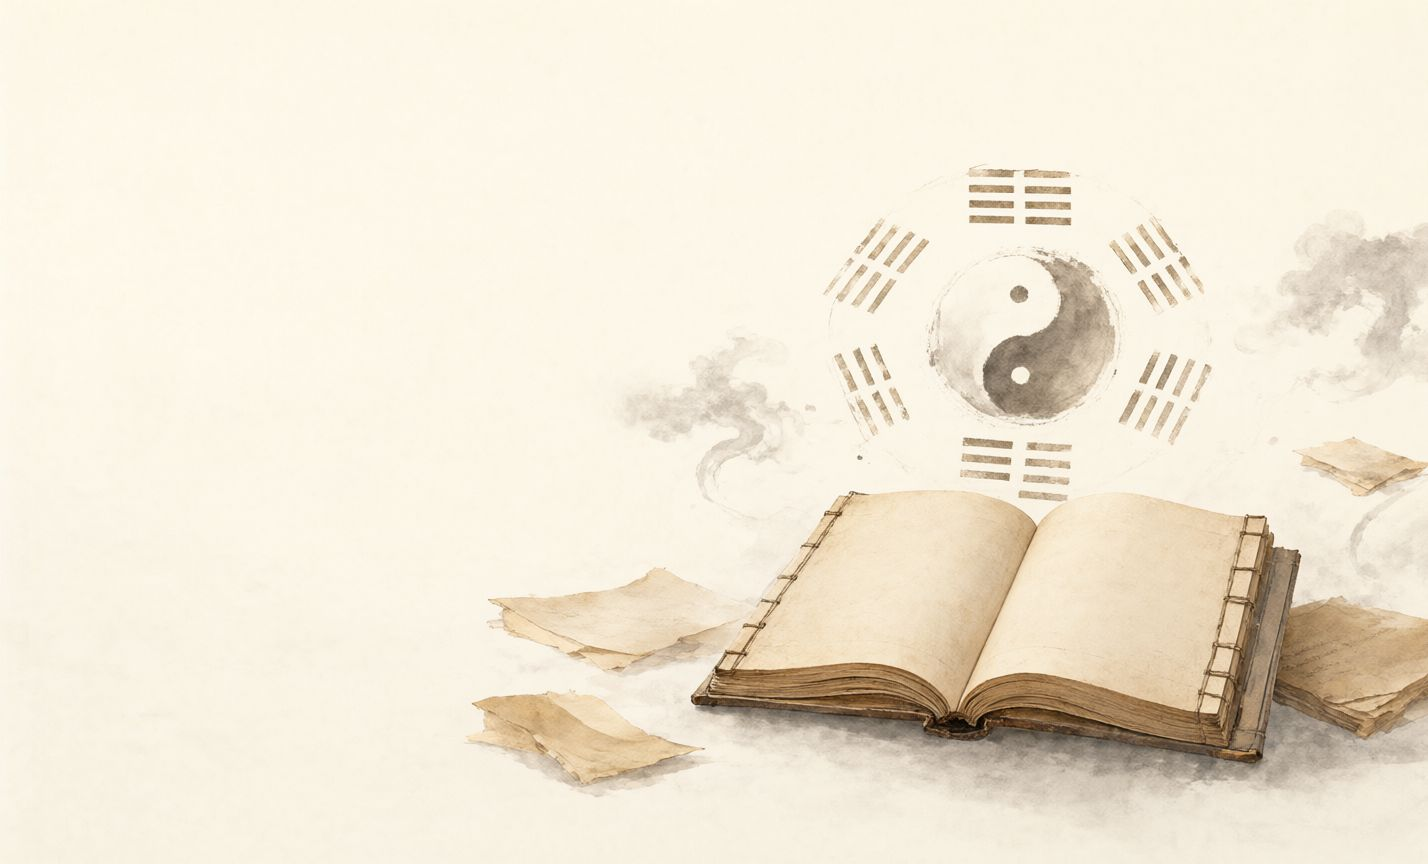
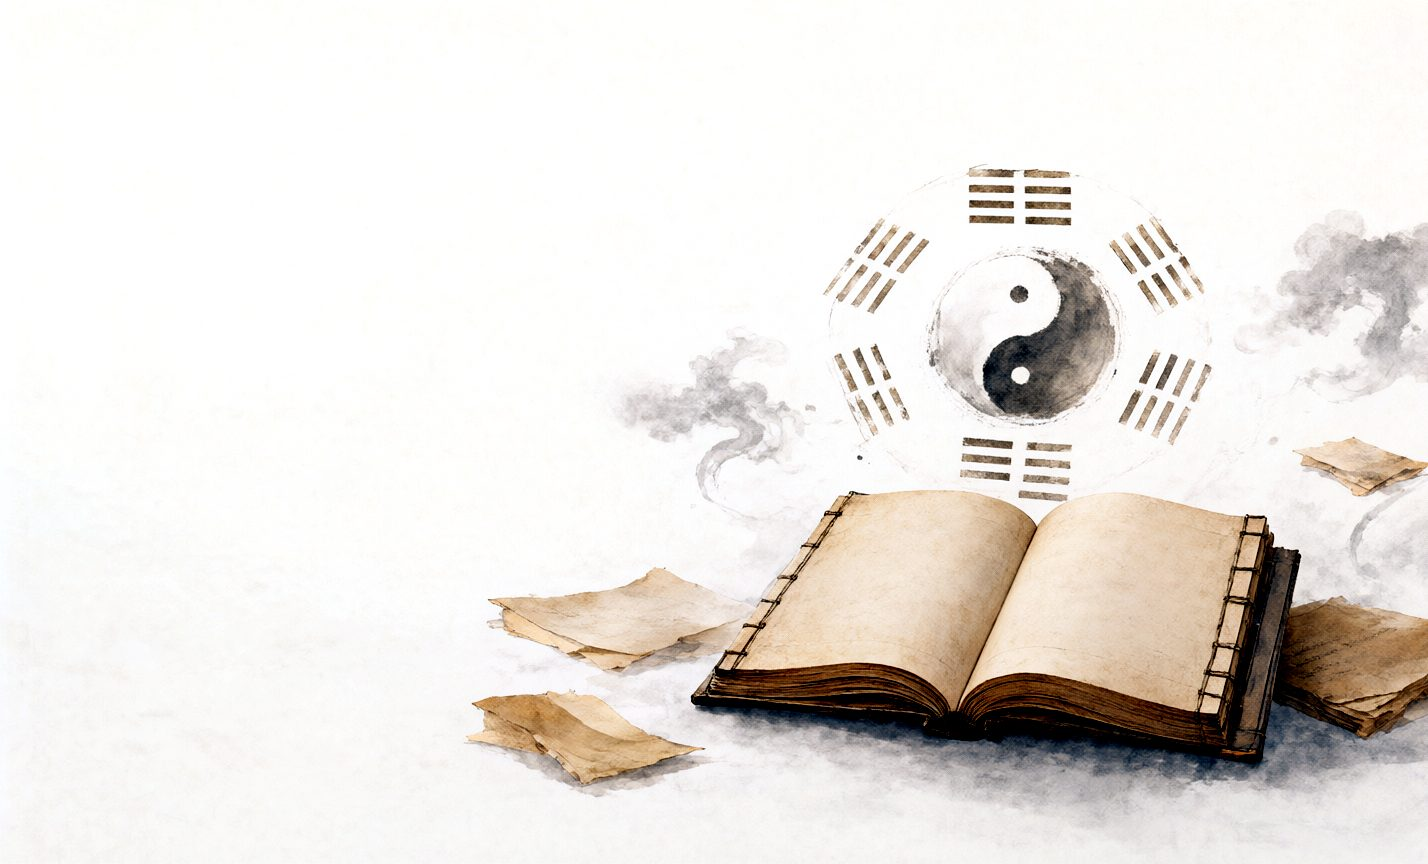
fix(ziwei): 提升淺色背景可見度，修正 1440 右緣裁切
- 淺色圖提高墨線對比並改為 100% auto 定位

- 降低右側遮罩、保留完整古書；1440 右緣加淡出

- 淺色小字與下拉邊框對比提升

diff --git a/source/ziwei-fortune/styles.css b/source/ziwei-fortune/styles.css
@@ -85,9 +85,11 @@ body::after {
 body.light::after {
   display: block;
   background:
-    linear-gradient(90deg, rgba(245, 240, 230, 0.94) 0%, rgba(245, 240, 230, 0.8) 34%, rgba(245, 240, 230, 0.22) 66%, rgba(245, 240, 230, 0.05) 100%),
-    url("./bg-ziwei-light.jpg") right center / cover no-repeat;
-  opacity: 0.95;
+    linear-gradient(90deg, rgba(245, 240, 230, 0.9) 0%, rgba(245, 240, 230, 0.58) 34%, rgba(245, 240, 230, 0.12) 66%, rgba(245, 240, 230, 0) 100%),
+    url("./bg-ziwei-light.jpg") right top / 100% auto no-repeat;
+  opacity: 1;
+  mask-image: linear-gradient(180deg, #000 0%, rgba(0, 0, 0, 0.78) 60%, rgba(0, 0, 0, 0.28) 88%, transparent 100%);
+  -webkit-mask-image: linear-gradient(180deg, #000 0%, rgba(0, 0, 0, 0.78) 60%, rgba(0, 0, 0, 0.28) 88%, transparent 100%);
 }
 
 h1, h2, h3, .brand-text { font-family: var(--serif); font-weight: 600; letter-spacing: 0.02em; }
@@ -217,6 +219,18 @@ input[type="text"], input[type="number"], select {
 body.light input[type="text"], body.light input[type="number"], body.light select { background-color: #fff; }
 body.light input[type="text"], body.light input[type="number"], body.light select,
 body.light .segmented { border-color: rgba(60, 45, 25, 0.24); }
+body.light .eyebrow, body.light .text-btn { color: #8a5f16; }
+body.light .field-label, body.light .form-note { color: #5d5548; }
+body.light .form-note { font-size: 12.5px; }
+
+@media (min-width: 761px) and (max-width: 1600px) {
+  body.light::after {
+    background:
+      linear-gradient(90deg, rgba(245, 240, 230, 0.9) 0%, rgba(245, 240, 230, 0.58) 34%, rgba(245, 240, 230, 0.12) 66%, rgba(245, 240, 230, 0) 100%),
+      linear-gradient(270deg, rgba(245, 240, 230, 0.95) 0%, rgba(245, 240, 230, 0.55) 8%, rgba(245, 240, 230, 0) 18%),
+      url("./bg-ziwei-light.jpg") right top / 100% auto no-repeat;
+  }
+}
 body.light .panel { border-color: rgba(60, 45, 25, 0.14); box-shadow: 0 18px 44px rgba(90, 70, 40, 0.1); }
 body.light .palace-cell { border-color: rgba(60, 45, 25, 0.16); }
 input:focus, select:focus { border-color: var(--gold); box-shadow: 0 0 0 3px rgba(217, 184, 113, 0.14); }
